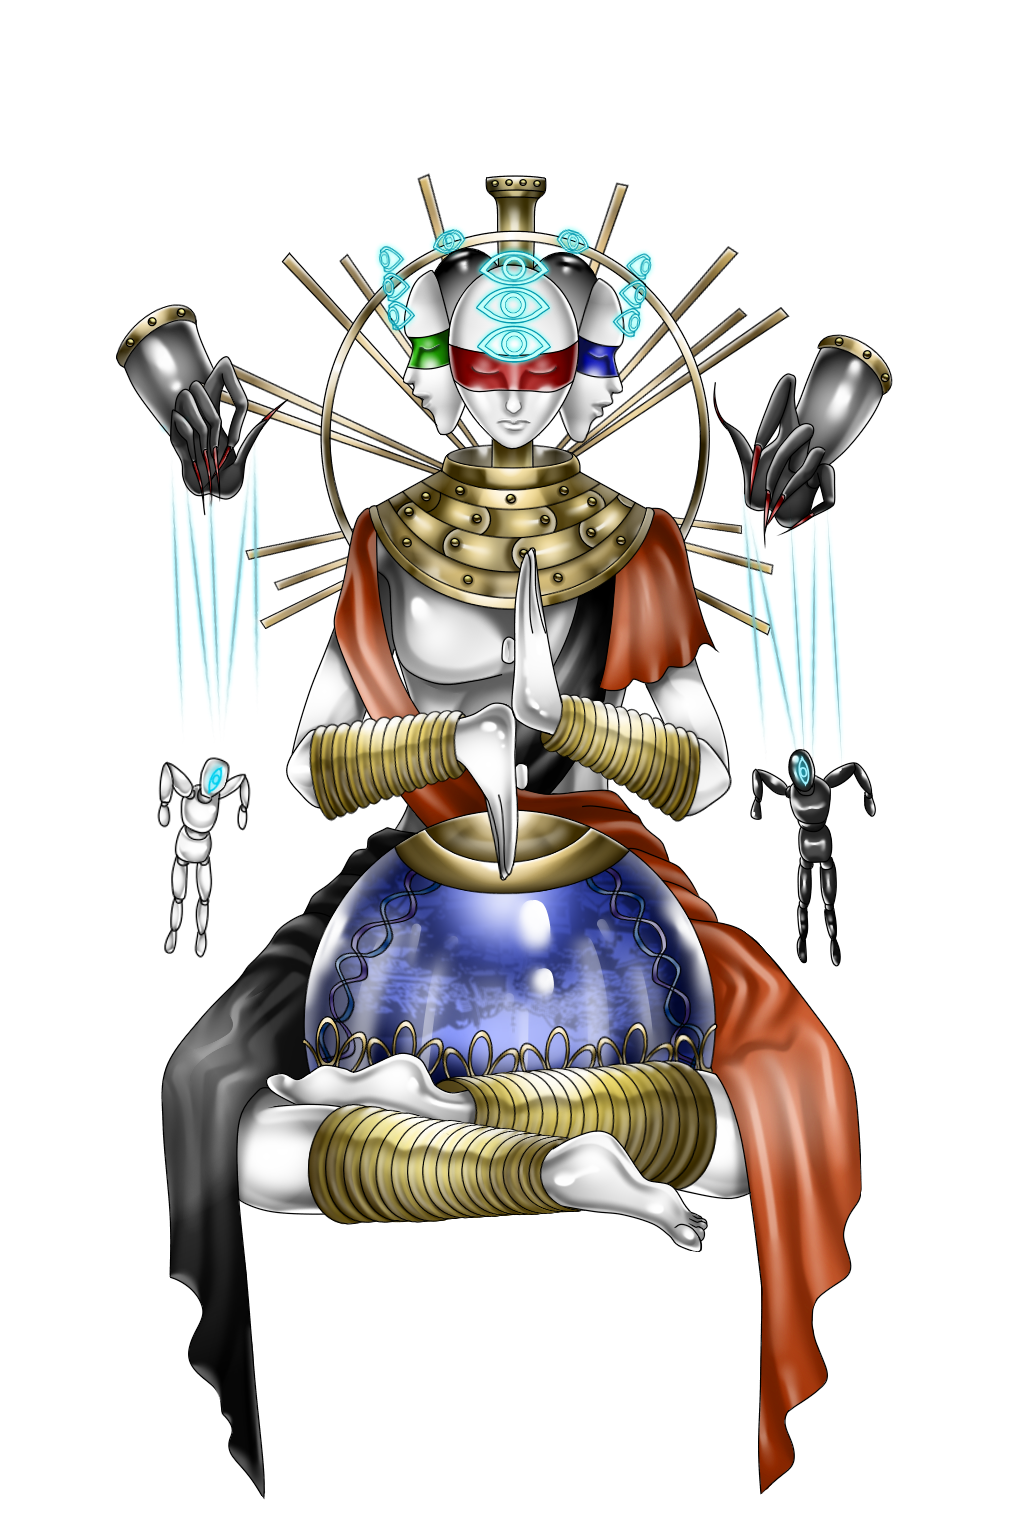
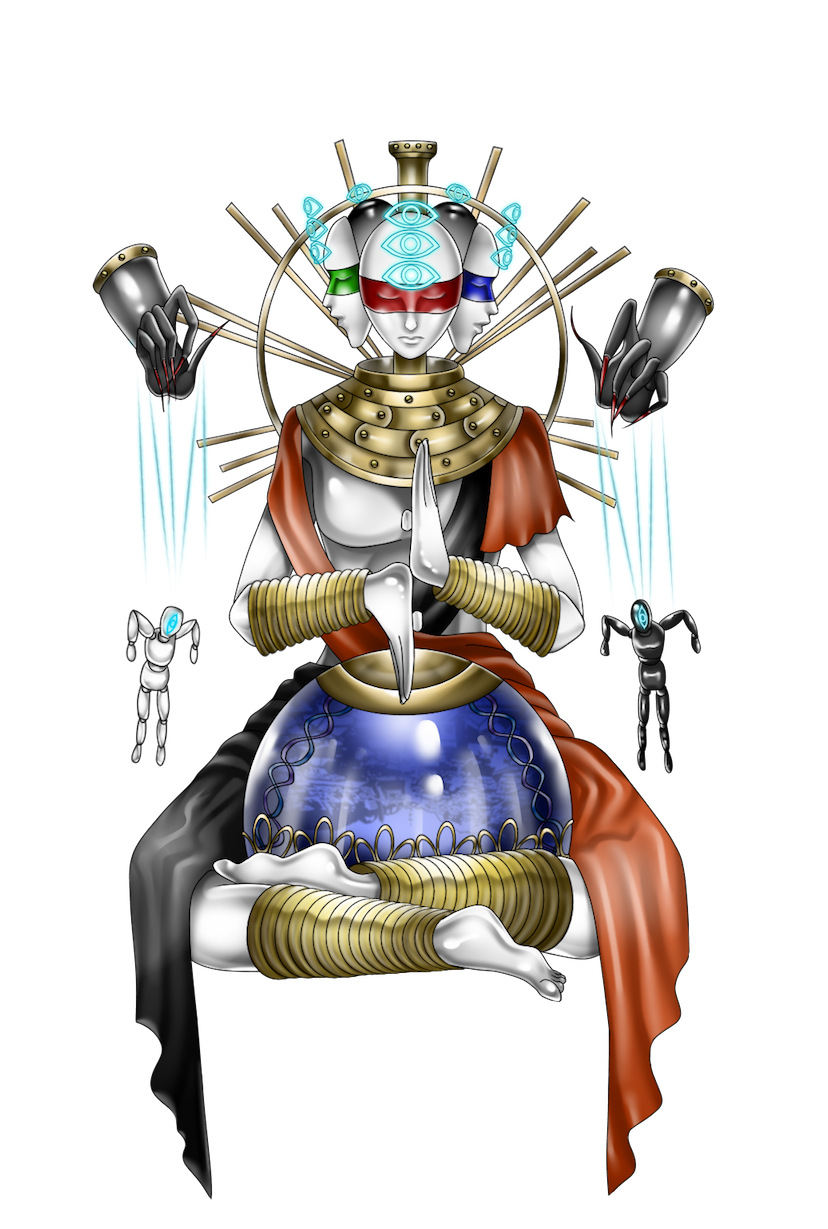
画像サイズ調整

Changed region(s): [[0.3623, 0.1855, 0.3925, 0.2164]]

diff --git a/README.md b/README.md
@@ -1,7 +1,7 @@
 # オープンソース 仮想通貨自動取引bot開発フレームワーク
 ##  〜〜〜　Puppeteer (傀儡師)　〜〜〜
 
-<img src="docs/image/puppeteer_main.png" width="640">
+![docs/image/puppeteer_main.png](docs/image/puppeteer_main.png)
 
 ## Puppeteer(傀儡師)とは
 
